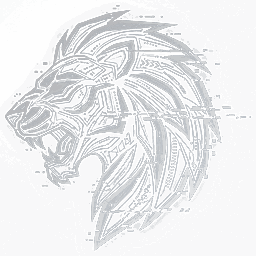
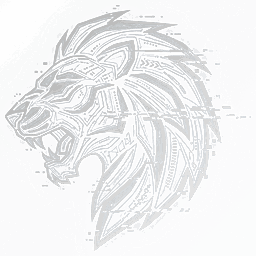
fix(admin): lift the lion out of the murk — its darkest step was 2.6:1 (#799)
The lockup changes in #797 were about type size, but the screenshot showed the
thing still missing was the mark: a grey smudge at the top of the sidebar.

The cause was in the asset, not the layout. The chrome ramp painted the mark with
the lion's own luminance, so its floor decided how the dark half of the drawing
sat against the surface — and the floor was `#5c6773` against sidebar chrome at
`#101317`, i.e. **2.6:1**. That is below anything you would call legible, which is
why more padding and a bigger size did not help: the mark was not small, it was
dim everywhere.

Lifting the floor to `#9aa6b4` (mid `#d2dbe4`, ceiling `#ffffff`) puts even the
darkest step of the mark at **7.5:1**. Same 256px source, same crop, same mask,
same 96-colour palette — 22 KB, unchanged.

The render above is `npm run preview:theme --theme obsidian-forge` against the
built CSS at 4x. The generation recipe in `LionMark.tsx` is updated with the new
ramp and the contrast figure, since the old values would otherwise still be there
to mislead the next regeneration.

`tsc --noEmit` clean, 66/66 tests, build green.

diff --git a/admin/src/components/LionMark.tsx b/admin/src/components/LionMark.tsx
@@ -25,8 +25,12 @@ interface LionMarkProps {
  *      dead space;
  *   4. resize to 256 with LANCZOS, then unsharp-mask to re-solidify the 1px
  *      strokes the resample softened;
- *   5. colour = colorize(mask, black #5c6773, mid #9aa6b3, white #fbfdff), so the
- *      colour follows the mark's own luminance and the highlights read as polish;
+ *   5. colour = colorize(mask, black #9aa6b4, mid #d2dbe4, white #ffffff), so the
+ *      colour follows the mark's own luminance and the highlights read as polish.
+ *      The *floor* is the part that matters: the mark sits on sidebar chrome at
+ *      #101317, and an earlier #5c6773 black stop left the lower half of the ramp
+ *      at only ~2.6:1 — on screen that was a grey smudge, not a lion. #9aa6b4
+ *      puts even the darkest step of the mark at 7.5:1;
  *   6. multiply by a diagonal sheen built from two blended axis gradients (a
  *      rotated linear_gradient seams where it wraps);
  *   7. alpha = mask, which is what removes the black backdrop;
